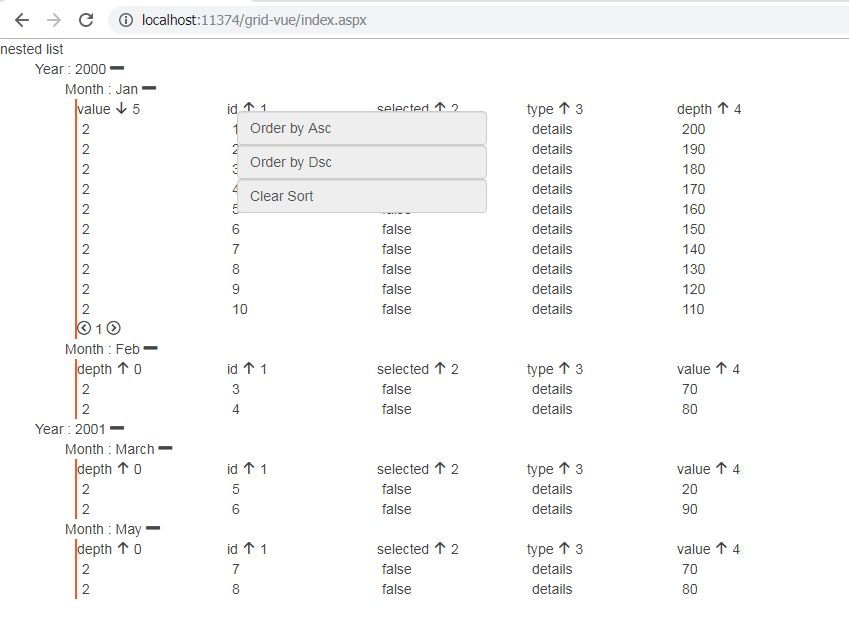
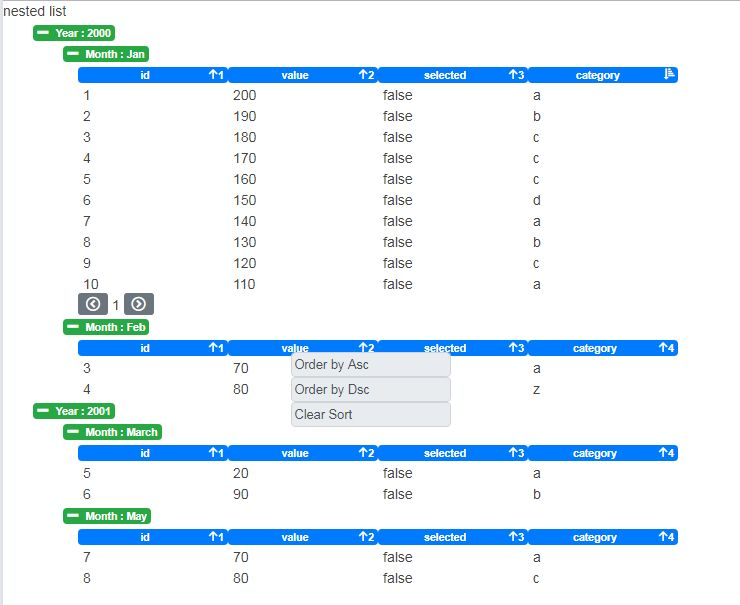
more updates

diff --git a/vue-webform/grid-vue/grid-context-menu/grid-vue-context-menu.html b/vue-webform/grid-vue/grid-context-menu/grid-vue-context-menu.html
@@ -8,7 +8,9 @@
                    :value="item.name"
                    @click="itemOnClick($event, item, headerName)"
                    :ref="'item' + item.key"
-                   :class="item.class" />
+                   class="form-control mr-sm-2" 
+                   style="font-size: 0.8rem; width: 80%; padding: 2px"
+                    />
         </li>
     </ul>
 </div>

diff --git a/vue-webform/grid-vue/grid/grid-vue-details.js b/vue-webform/grid-vue/grid/grid-vue-details.js
@@ -180,8 +180,8 @@
     var contextMenu = {
         isVisible: false,
         containerStyle: {
-            width: '250px',
-            height: '200px',
+            width: '200px',
+            height: '150px',
             top: null,
             left: null,
             position: 'absolute'

diff --git a/vue-webform/grid-vue/grid/grid-vue-details.html b/vue-webform/grid-vue/grid/grid-vue-details.html
@@ -1,5 +1,5 @@
 <div>
-    <div style="margin-left: 15px;">
+    <div style="margin-left: 15px; min-width: 800px">
         <div>
             <template v-for="column in detailData.columns">
                 <div class="badge badge-primary" style="width: 150px; display: inline-block">

diff --git a/vue-webform/grid-vue/grid-context-menu/grid-vue-context-menu.js b/vue-webform/grid-vue/grid-context-menu/grid-vue-context-menu.js
@@ -13,7 +13,7 @@
     data_.itemList.forEach(function (i, index) {
         i.tabindex = index;
         i.selected = false;
-        i.class = 'form-control mr-sm-2'
+        //i.class = 'form-control mr-sm-2'
     });
 
     function isBlank(str) {
